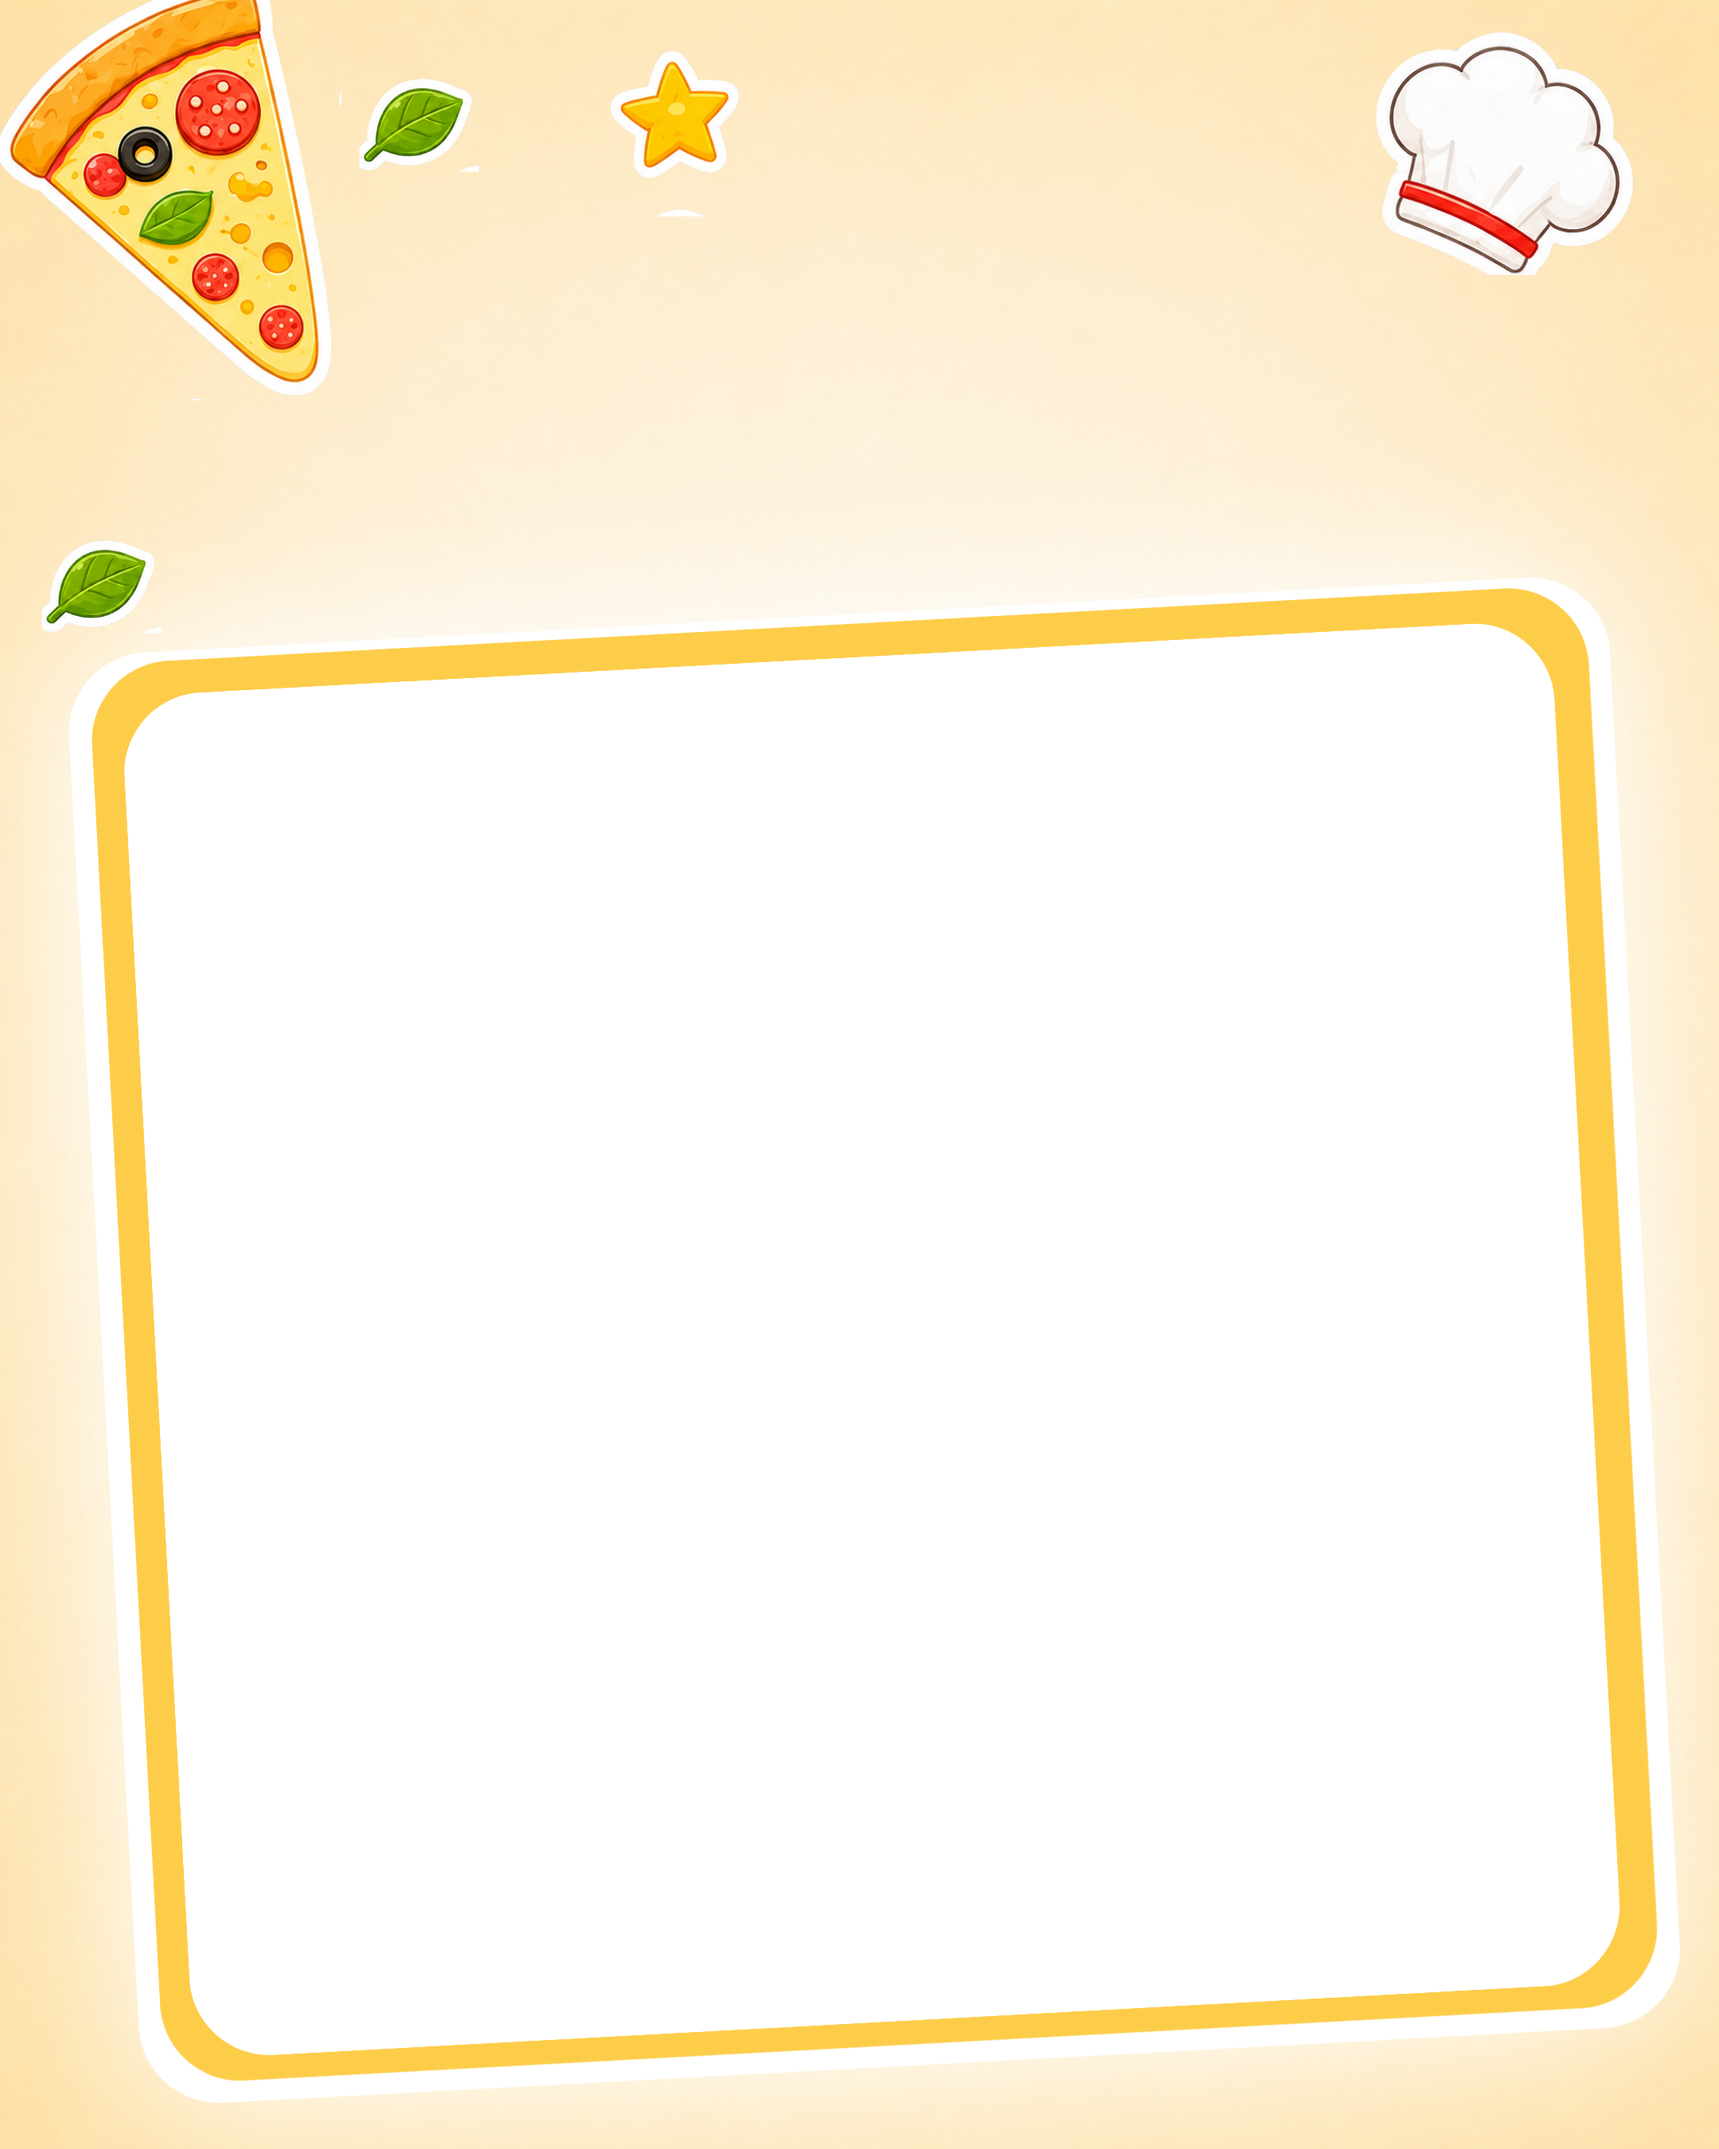
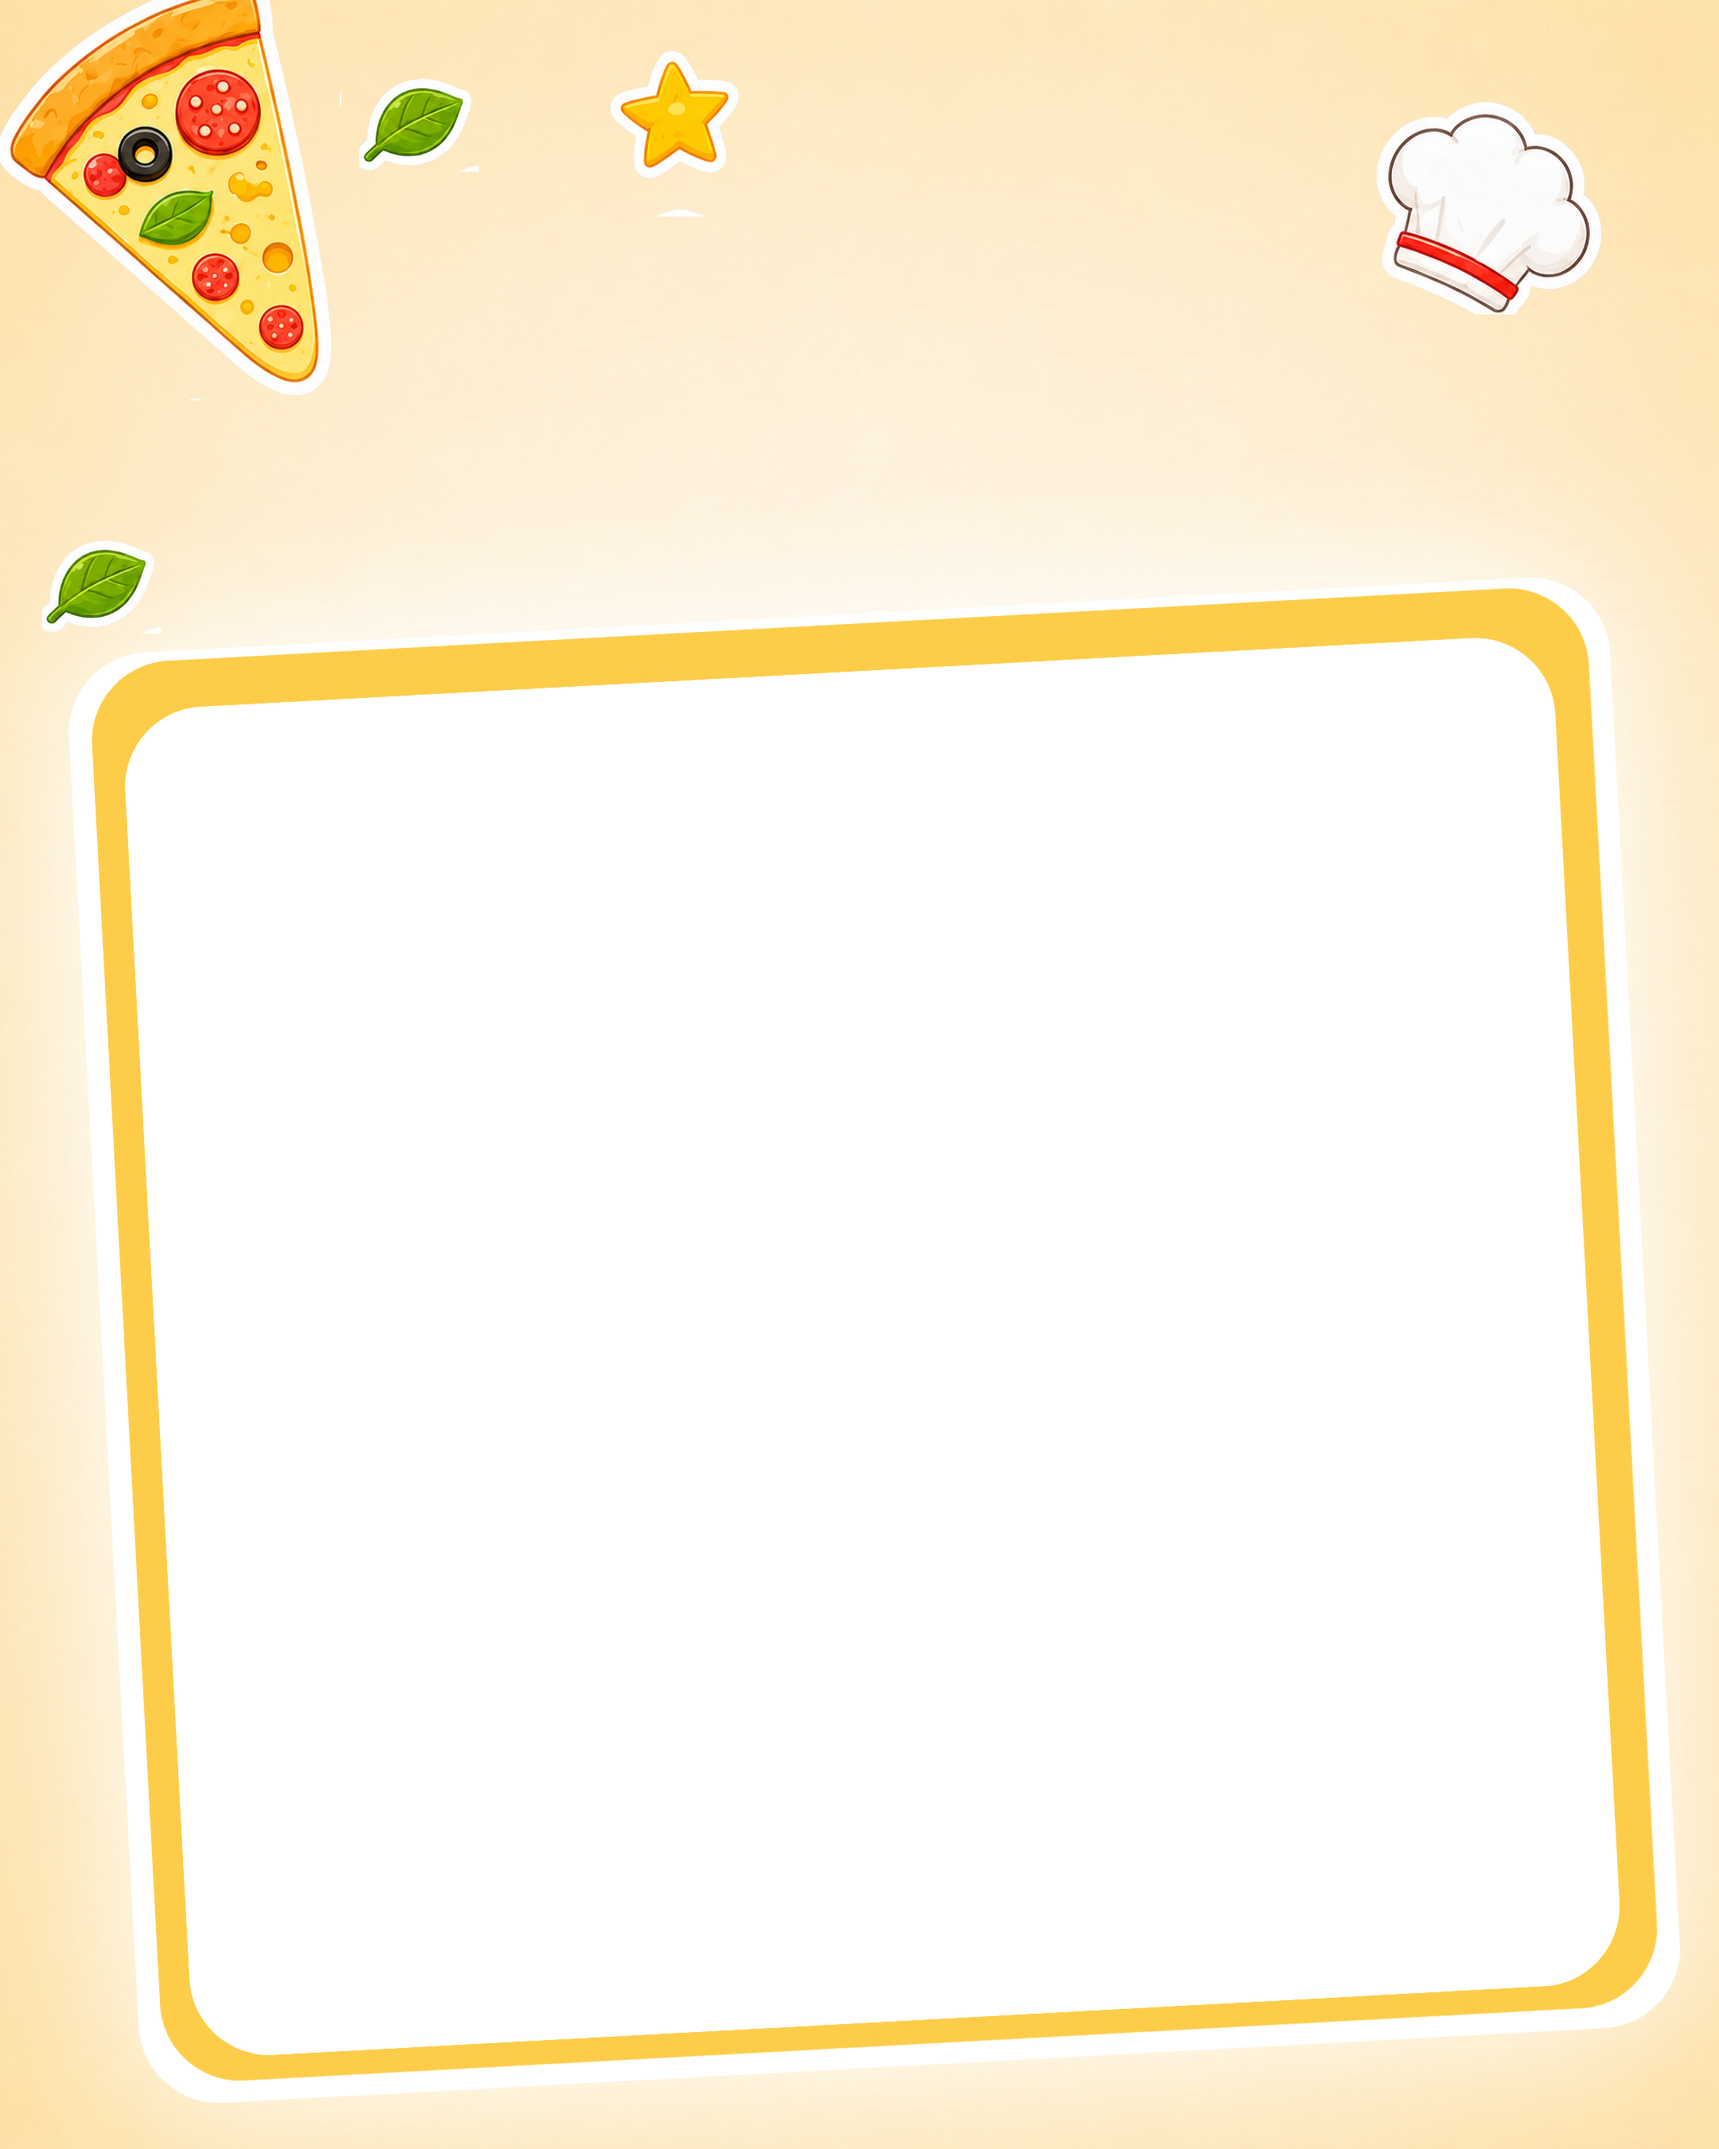
Add files via upload

Changed region(s): [[0.0931, 0.28, 0.8995, 0.3422], [0.7755, 0.0, 0.9616, 0.1556]]

diff --git a/teacher-liff.js b/teacher-liff.js
@@ -188,17 +188,17 @@ const afterClassWowAssets = {
 };
 
 const teacherPosterAssets = {
-  version: "20260711-artwork-carousel-pizza",
+  version: "20260711-artwork-carousel-pizza-tune",
   pizza: {
-    background: "assets/artwork-carousel/pizza/layer_01.png?v=20260711-artwork-carousel-pizza",
-    foreground: "assets/artwork-carousel/pizza/layer_03.png?v=20260711-artwork-carousel-pizza"
+    background: "assets/artwork-carousel/pizza/layer_01.png?v=20260711-artwork-carousel-pizza-tune",
+    foreground: "assets/artwork-carousel/pizza/layer_03.png?v=20260711-artwork-carousel-pizza-tune"
   }
 };
 
 const teacherPosterLayout = {
   canvas: { width: 2160, height: 2700 },
-  pizzaPhoto: { x: 180, y: 820, width: 1800, height: 1700, rotate: -0.035 },
-  chefName: { x: 835, y: 616, width: 680, height: 92 },
+  pizzaPhoto: { x: 176, y: 802, width: 1810, height: 1720, rotate: -0.05236 },
+  chefName: { x: 952, y: 596, width: 560, height: 92 },
   outline: { size: 16, softness: 2 },
   shadow: { blur: 8, opacity: 0.25, offsetX: 4, offsetY: 6 }
 };

diff --git a/teacher-liff.html b/teacher-liff.html
@@ -8,7 +8,7 @@
   <link rel="preconnect" href="https://fonts.googleapis.com" />
   <link rel="preconnect" href="https://fonts.gstatic.com" crossorigin />
   <link href="https://fonts.googleapis.com/css2?family=Kanit:wght@500;600;700;800;900&family=Mali:wght@400;500;600;700&family=Noto+Sans+Thai:wght@400;500;600;700;800;900&display=swap" rel="stylesheet" />
-  <link rel="stylesheet" href="teacher-liff.css?v=20260711-artwork-carousel-pizza" />
+  <link rel="stylesheet" href="teacher-liff.css?v=20260711-artwork-carousel-pizza-tune" />
 </head>
 <body>
   <main class="teacher-app">
@@ -311,6 +311,6 @@
   <script src="supabase.js?v=2"></script>
   <script src="https://static.line-scdn.net/liff/edge/2/sdk.js"></script>
   <script src="supabase-config.js?v=20260630-today-center"></script>
-  <script src="teacher-liff.js?v=20260711-artwork-carousel-pizza"></script>
+  <script src="teacher-liff.js?v=20260711-artwork-carousel-pizza-tune"></script>
 </body>
 </html>
